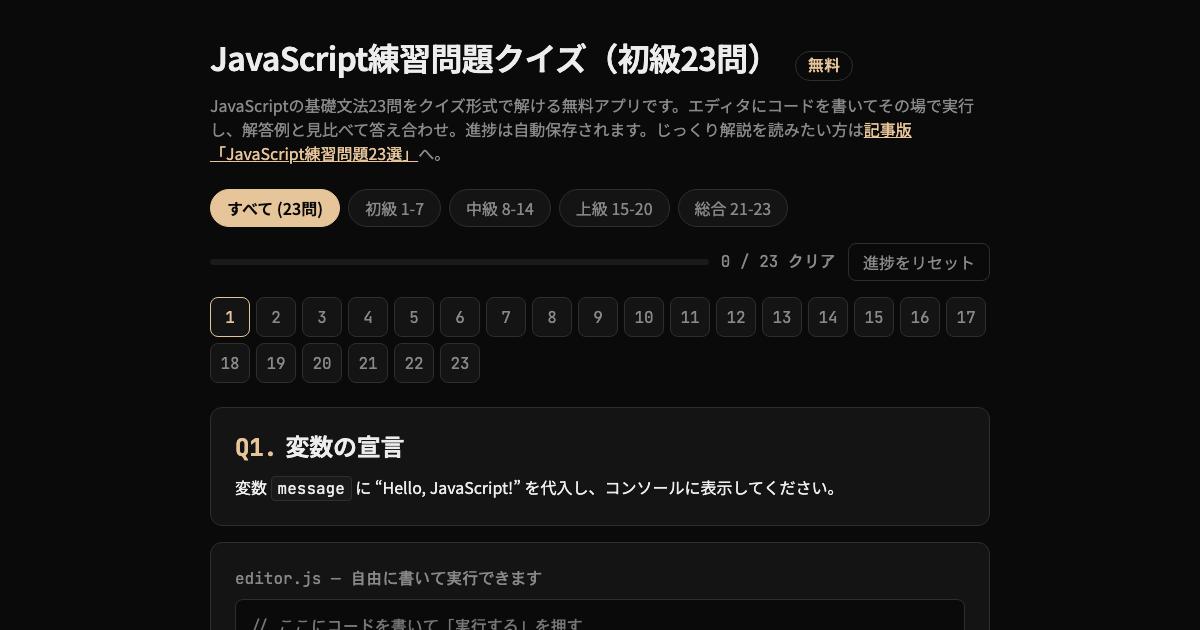
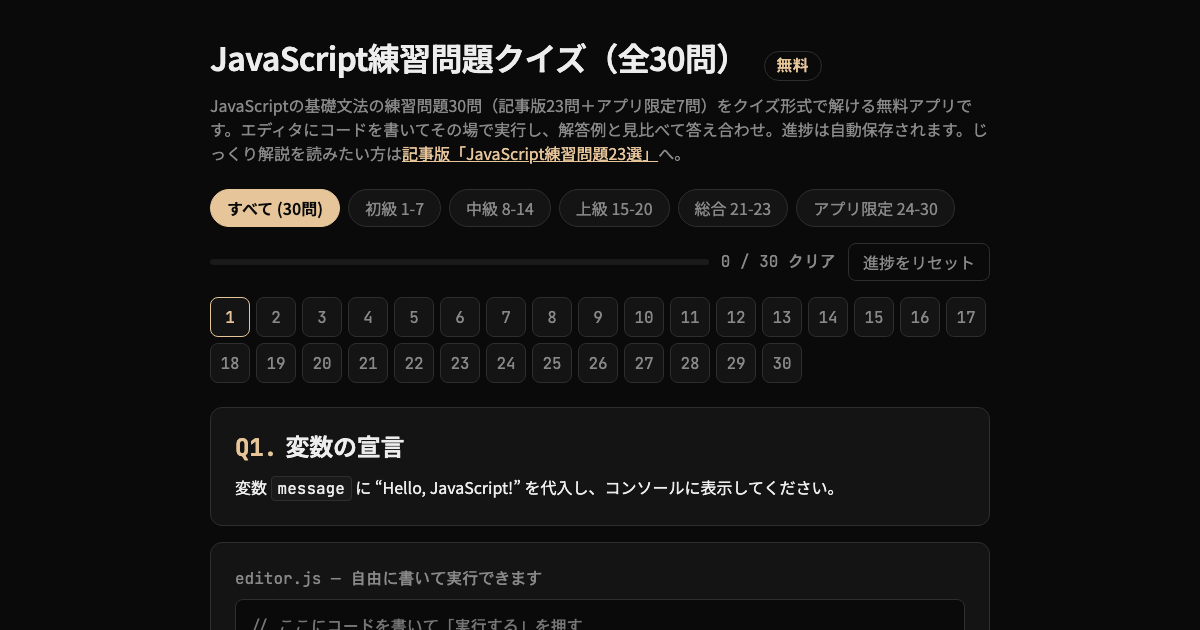
feat(js-beginner): 23問→30問へ拡張（Q24-30アプリ限定ドリル追加・js-array方式のstarterプリセット対応・全30問表記へSEO/OG更新・?v=20260729b）

diff --git a/apps/js-beginner/js/data.js b/apps/js-beginner/js/data.js
@@ -1,10 +1,18 @@
-// 問題データ（記事版 id937 と同期）
-const PROBLEMS = [{"id":1,"title":"変数の宣言","questionHtml":"変数 <code>message</code> に “Hello, JavaScript!” を代入し、コンソールに表示してください。","answer":"let message = \"Hello, JavaScript!\";\nconsole.log(message);"},{"id":2,"title":"四則演算","questionHtml":"2つの変数 <code>a</code> と <code>b</code> に数値を代入し、足し算・引き算・掛け算・割り算の結果をコンソールに表示してください。","answer":"let a = 10;\nlet b = 2;\nconsole.log(a + b, a - b, a * b, a / b);"},{"id":3,"title":"データ型の確認","questionHtml":"変数 <code>num</code> に数値 5、<code>text</code> に文字列 “JavaScript” を代入し、各データ型を確認してください。","answer":"let num = 5;\nlet text = \"JavaScript\";\nconsole.log(typeof num, typeof text);"},{"id":4,"title":"条件分岐 (if文)","questionHtml":"<code>score</code> が80以上なら “合格”、それ未満なら “不合格” と表示してください。","answer":"let score = 85;\nif (score >= 80) {\n  console.log(\"合格\");\n} else {\n  console.log(\"不合格\");\n}"},{"id":5,"title":"繰り返し処理 (for文)","questionHtml":"1から5までの数値を順に表示してください。","answer":"for (let i = 1; i <= 5; i++) {\n  console.log(i);\n}"},{"id":6,"title":"配列の操作","questionHtml":"配列 <code>fruits</code> に “apple”, “banana”, “grape” を追加し、すべて表示してください。","answer":"let fruits = [];\nfruits.push(\"apple\", \"banana\", \"grape\");\nconsole.log(fruits);"},{"id":7,"title":"関数の作成","questionHtml":"引数に渡した数値を2倍にして返す関数 <code>double</code> を作成してください。","answer":"function double(x) {\n  return x * 2;\n}\nconsole.log(double(5));"},{"id":8,"title":"奇数・偶数の判定","questionHtml":"数値が奇数なら “奇数”、偶数なら “偶数” と表示してください。","answer":"let num = 4;\nif (num % 2 === 0) {\n  console.log(\"偶数\");\n} else {\n  console.log(\"奇数\");\n}"},{"id":9,"title":"while文の利用","questionHtml":"1から5までの数値を while文を使って表示してください。","answer":"let i = 1;\nwhile (i <= 5) {\n  console.log(i);\n  i++;\n}"},{"id":10,"title":"配列のループ処理","questionHtml":"配列 <code>numbers = [1, 2, 3, 4, 5]</code> をループで順番に表示してください。","answer":"let numbers = [1, 2, 3, 4, 5];\nnumbers.forEach(num => console.log(num));"},{"id":11,"title":"三項演算子の利用","questionHtml":"<code>age</code> が20以上なら “大人”、それ未満なら “子供” と表示してください。","answer":"let age = 18;\nconsole.log(age >= 20 ? \"大人\" : \"子供\");"},{"id":12,"title":"配列から最大値を探す","questionHtml":"配列 <code>numbers = [10, 20, 30, 5, 25]</code> の最大値を表示してください。","answer":"let numbers = [10, 20, 30, 5, 25];\nconsole.log(Math.max(...numbers));"},{"id":13,"title":"オブジェクトの利用","questionHtml":"オブジェクト <code>person</code> に <code>name</code> と <code>age</code> を追加し、表示してください。","answer":"let person = {};\nperson.name = \"Taro\";\nperson.age = 25;\nconsole.log(person);"},{"id":14,"title":"フィルタリング処理","questionHtml":"配列 <code>numbers = [1, 2, 3, 4, 5]</code> から偶数だけを取り出して表示してください。","answer":"let numbers = [1, 2, 3, 4, 5];\nlet evenNumbers = numbers.filter(num => num % 2 === 0);\nconsole.log(evenNumbers);"},{"id":15,"title":"配列の合計値","questionHtml":"配列 <code>numbers = [1, 2, 3, 4, 5]</code> の合計値を求めてください。","answer":"let numbers = [1, 2, 3, 4, 5];\nlet sum = numbers.reduce((acc, num) => acc + num, 0);\nconsole.log(sum);"},{"id":16,"title":"配列の重複を削除する","questionHtml":"配列 <code>numbers = [1, 2, 2, 3, 4, 4, 5]</code> から重複を取り除いて表示してください。","answer":"let numbers = [1, 2, 2, 3, 4, 4, 5];\nlet unique = [...new Set(numbers)];\nconsole.log(unique);"},{"id":17,"title":"関数を返す関数","questionHtml":"関数 <code>createMultiplier</code> を作成し、引数に渡した数値で掛け算する関数を返してください。","answer":"function createMultiplier(factor) {\n  return function(x) {\n    return x * factor;\n  };\n}\nlet double = createMultiplier(2);\nconsole.log(double(5));"},{"id":18,"title":"オブジェクトのメソッド","questionHtml":"オブジェクト <code>calculator</code> に <code>add</code> メソッドを作成し、2つの数値を足し算してください。","answer":"let calculator = {\n  add: function(a, b) {\n    return a + b;\n  }\n};\nconsole.log(calculator.add(3, 5));"},{"id":19,"title":"配列の並び替え","questionHtml":"配列 <code>numbers = [5, 2, 8, 1, 3]</code> を昇順に並び替えて表示してください。","answer":"let numbers = [5, 2, 8, 1, 3];\nlet sorted = [...numbers].sort((a, b) => a - b);\nconsole.log(sorted);"},{"id":20,"title":"クラスの利用","questionHtml":"<code>Person</code> クラスを作成し、<code>name</code> プロパティと <code>greet</code> メソッドを追加してください。","answer":"class Person {\n  constructor(name) {\n    this.name = name;\n  }\n  greet() {\n    console.log(`Hello, my name is ${this.name}.`);\n  }\n}\nlet person = new Person(\"Taro\");\nperson.greet();"},{"id":21,"title":"FizzBuzz判定関数","questionHtml":"1から100までの数値を順に表示してください。ただし、3の倍数のときは数値の代わりに “Fizz”、5の倍数のときは “Buzz”、3と5の両方の倍数のときは “FizzBuzz” と表示してください。","answer":"function fizzBuzz(number) {\n  if (number % 3 === 0 && number % 5 === 0) {\n    console.log(\"FizzBuzz\");\n  } else if (number % 3 === 0) {\n    console.log(\"Fizz\");\n  } else if (number % 5 === 0) {\n    console.log(\"Buzz\");\n  } else {\n    console.log(number);\n  }\n}\nfor (let i = 1; i <= 100; i++) {\n  fizzBuzz(i);\n}"},{"id":22,"title":"フィボナッチ数列の生成","questionHtml":"引数に渡した項数ぶんのフィボナッチ数列を配列で返す関数 <code>generateFibonacci</code> を作成してください。例えば <code>generateFibonacci(10)</code> なら <code>[0, 1, 1, 2, 3, 5, 8, 13, 21, 34]</code> を返します。","answer":"function generateFibonacci(n) {\n  if (n <= 0) return [];\n  if (n === 1) return [0];\n  const fib = [0, 1];\n  for (let i = 2; i < n; i++) {\n    fib.push(fib[i - 1] + fib[i - 2]);\n  }\n  return fib;\n}\nconsole.log(generateFibonacci(10));\n// [0, 1, 1, 2, 3, 5, 8, 13, 21, 34]"},{"id":23,"title":"配列の重複除去","questionHtml":"配列 <code>[1, 2, 2, 3, 4, 4, 5]</code> から重複する要素を取り除き、ユニークな値だけの配列を返す関数 <code>removeDuplicates</code> を作成してください。","answer":"function removeDuplicates(arr) {\n  return [...new Set(arr)];\n}\nconsole.log(removeDuplicates([1, 2, 2, 3, 4, 4, 5]));\n// [1, 2, 3, 4, 5]"}];
+// 問題データ（Q1-23は記事版 id937 と同期・Q24-30はアプリ限定ドリル）
+const PROBLEMS = [{"id":1,"title":"変数の宣言","questionHtml":"変数 <code>message</code> に “Hello, JavaScript!” を代入し、コンソールに表示してください。","answer":"let message = \"Hello, JavaScript!\";\nconsole.log(message);"},{"id":2,"title":"四則演算","questionHtml":"2つの変数 <code>a</code> と <code>b</code> に数値を代入し、足し算・引き算・掛け算・割り算の結果をコンソールに表示してください。","answer":"let a = 10;\nlet b = 2;\nconsole.log(a + b, a - b, a * b, a / b);"},{"id":3,"title":"データ型の確認","questionHtml":"変数 <code>num</code> に数値 5、<code>text</code> に文字列 “JavaScript” を代入し、各データ型を確認してください。","answer":"let num = 5;\nlet text = \"JavaScript\";\nconsole.log(typeof num, typeof text);"},{"id":4,"title":"条件分岐 (if文)","questionHtml":"<code>score</code> が80以上なら “合格”、それ未満なら “不合格” と表示してください。","answer":"let score = 85;\nif (score >= 80) {\n  console.log(\"合格\");\n} else {\n  console.log(\"不合格\");\n}"},{"id":5,"title":"繰り返し処理 (for文)","questionHtml":"1から5までの数値を順に表示してください。","answer":"for (let i = 1; i <= 5; i++) {\n  console.log(i);\n}"},{"id":6,"title":"配列の操作","questionHtml":"配列 <code>fruits</code> に “apple”, “banana”, “grape” を追加し、すべて表示してください。","answer":"let fruits = [];\nfruits.push(\"apple\", \"banana\", \"grape\");\nconsole.log(fruits);"},{"id":7,"title":"関数の作成","questionHtml":"引数に渡した数値を2倍にして返す関数 <code>double</code> を作成してください。","answer":"function double(x) {\n  return x * 2;\n}\nconsole.log(double(5));"},{"id":8,"title":"奇数・偶数の判定","questionHtml":"数値が奇数なら “奇数”、偶数なら “偶数” と表示してください。","answer":"let num = 4;\nif (num % 2 === 0) {\n  console.log(\"偶数\");\n} else {\n  console.log(\"奇数\");\n}"},{"id":9,"title":"while文の利用","questionHtml":"1から5までの数値を while文を使って表示してください。","answer":"let i = 1;\nwhile (i <= 5) {\n  console.log(i);\n  i++;\n}"},{"id":10,"title":"配列のループ処理","questionHtml":"配列 <code>numbers = [1, 2, 3, 4, 5]</code> をループで順番に表示してください。","answer":"let numbers = [1, 2, 3, 4, 5];\nnumbers.forEach(num => console.log(num));"},{"id":11,"title":"三項演算子の利用","questionHtml":"<code>age</code> が20以上なら “大人”、それ未満なら “子供” と表示してください。","answer":"let age = 18;\nconsole.log(age >= 20 ? \"大人\" : \"子供\");"},{"id":12,"title":"配列から最大値を探す","questionHtml":"配列 <code>numbers = [10, 20, 30, 5, 25]</code> の最大値を表示してください。","answer":"let numbers = [10, 20, 30, 5, 25];\nconsole.log(Math.max(...numbers));"},{"id":13,"title":"オブジェクトの利用","questionHtml":"オブジェクト <code>person</code> に <code>name</code> と <code>age</code> を追加し、表示してください。","answer":"let person = {};\nperson.name = \"Taro\";\nperson.age = 25;\nconsole.log(person);"},{"id":14,"title":"フィルタリング処理","questionHtml":"配列 <code>numbers = [1, 2, 3, 4, 5]</code> から偶数だけを取り出して表示してください。","answer":"let numbers = [1, 2, 3, 4, 5];\nlet evenNumbers = numbers.filter(num => num % 2 === 0);\nconsole.log(evenNumbers);"},{"id":15,"title":"配列の合計値","questionHtml":"配列 <code>numbers = [1, 2, 3, 4, 5]</code> の合計値を求めてください。","answer":"let numbers = [1, 2, 3, 4, 5];\nlet sum = numbers.reduce((acc, num) => acc + num, 0);\nconsole.log(sum);"},{"id":16,"title":"配列の重複を削除する","questionHtml":"配列 <code>numbers = [1, 2, 2, 3, 4, 4, 5]</code> から重複を取り除いて表示してください。","answer":"let numbers = [1, 2, 2, 3, 4, 4, 5];\nlet unique = [...new Set(numbers)];\nconsole.log(unique);"},{"id":17,"title":"関数を返す関数","questionHtml":"関数 <code>createMultiplier</code> を作成し、引数に渡した数値で掛け算する関数を返してください。","answer":"function createMultiplier(factor) {\n  return function(x) {\n    return x * factor;\n  };\n}\nlet double = createMultiplier(2);\nconsole.log(double(5));"},{"id":18,"title":"オブジェクトのメソッド","questionHtml":"オブジェクト <code>calculator</code> に <code>add</code> メソッドを作成し、2つの数値を足し算してください。","answer":"let calculator = {\n  add: function(a, b) {\n    return a + b;\n  }\n};\nconsole.log(calculator.add(3, 5));"},{"id":19,"title":"配列の並び替え","questionHtml":"配列 <code>numbers = [5, 2, 8, 1, 3]</code> を昇順に並び替えて表示してください。","answer":"let numbers = [5, 2, 8, 1, 3];\nlet sorted = [...numbers].sort((a, b) => a - b);\nconsole.log(sorted);"},{"id":20,"title":"クラスの利用","questionHtml":"<code>Person</code> クラスを作成し、<code>name</code> プロパティと <code>greet</code> メソッドを追加してください。","answer":"class Person {\n  constructor(name) {\n    this.name = name;\n  }\n  greet() {\n    console.log(`Hello, my name is ${this.name}.`);\n  }\n}\nlet person = new Person(\"Taro\");\nperson.greet();"},{"id":21,"title":"FizzBuzz判定関数","questionHtml":"1から100までの数値を順に表示してください。ただし、3の倍数のときは数値の代わりに “Fizz”、5の倍数のときは “Buzz”、3と5の両方の倍数のときは “FizzBuzz” と表示してください。","answer":"function fizzBuzz(number) {\n  if (number % 3 === 0 && number % 5 === 0) {\n    console.log(\"FizzBuzz\");\n  } else if (number % 3 === 0) {\n    console.log(\"Fizz\");\n  } else if (number % 5 === 0) {\n    console.log(\"Buzz\");\n  } else {\n    console.log(number);\n  }\n}\nfor (let i = 1; i <= 100; i++) {\n  fizzBuzz(i);\n}"},{"id":22,"title":"フィボナッチ数列の生成","questionHtml":"引数に渡した項数ぶんのフィボナッチ数列を配列で返す関数 <code>generateFibonacci</code> を作成してください。例えば <code>generateFibonacci(10)</code> なら <code>[0, 1, 1, 2, 3, 5, 8, 13, 21, 34]</code> を返します。","answer":"function generateFibonacci(n) {\n  if (n <= 0) return [];\n  if (n === 1) return [0];\n  const fib = [0, 1];\n  for (let i = 2; i < n; i++) {\n    fib.push(fib[i - 1] + fib[i - 2]);\n  }\n  return fib;\n}\nconsole.log(generateFibonacci(10));\n// [0, 1, 1, 2, 3, 5, 8, 13, 21, 34]"},{"id":23,"title":"配列の重複除去","questionHtml":"配列 <code>[1, 2, 2, 3, 4, 4, 5]</code> から重複する要素を取り除き、ユニークな値だけの配列を返す関数 <code>removeDuplicates</code> を作成してください。","answer":"function removeDuplicates(arr) {\n  return [...new Set(arr)];\n}\nconsole.log(removeDuplicates([1, 2, 2, 3, 4, 4, 5]));\n// [1, 2, 3, 4, 5]"},
+  {"id":24,"title":"文字列の操作","questionHtml":"文字列 <code>email</code> の文字数、すべて大文字にしたもの、「@」を含むかどうか（true / false）の3つを表示してください。","starter":"const email = 'taro@example.com';\n","answer":"console.log(email.length);\nconsole.log(email.toUpperCase());\nconsole.log(email.includes('@'));"},
+  {"id":25,"title":"テンプレートリテラル","questionHtml":"変数 <code>user</code> と <code>items</code> を使って、「田中さんのカートには3個の商品があります」という文章をテンプレートリテラル（バッククォート）で組み立てて表示してください。","starter":"const user = '田中';\nconst items = 3;\n","answer":"console.log(`${user}さんのカートには${items}個の商品があります`);"},
+  {"id":26,"title":"switch文の利用","questionHtml":"変数 <code>signal</code> の値に応じて、「red」なら“止まれ”、「yellow」なら“注意”、「green」なら“進め”、それ以外なら“不明”と表示する switch文を書いてください。","starter":"const signal = 'red';\n","answer":"switch (signal) {\n  case 'red':\n    console.log('止まれ');\n    break;\n  case 'yellow':\n    console.log('注意');\n    break;\n  case 'green':\n    console.log('進め');\n    break;\n  default:\n    console.log('不明');\n}"},
+  {"id":27,"title":"アロー関数とデフォルト引数","questionHtml":"名前を受け取って「こんにちは、〇〇さん」と表示するアロー関数 <code>greet</code> を作成してください。引数を省略したときは「ゲスト」を使うようにデフォルト引数を設定し、引数あり・なしの両方で呼び出して確認しましょう。","starter":"","answer":"const greet = (name = 'ゲスト') => {\n  console.log(`こんにちは、${name}さん`);\n};\ngreet('田中');\ngreet();"},
+  {"id":28,"title":"Mathオブジェクトの利用","questionHtml":"数値 <code>3.7</code> の切り捨て・切り上げ・四捨五入の結果を表示してください。さらに、<code>Math.random()</code> を使って1〜6のランダムな整数（サイコロ）を表示してください。","starter":"","answer":"console.log(Math.floor(3.7));\nconsole.log(Math.ceil(3.7));\nconsole.log(Math.round(3.7));\nconsole.log(Math.floor(Math.random() * 6) + 1);"},
+  {"id":29,"title":"分割代入","questionHtml":"オブジェクト <code>profile</code> から <code>name</code> と <code>age</code> を分割代入で取り出して表示してください。さらに、配列 <code>colors</code> の1つ目を <code>first</code>、残りを <code>rest</code> に分割代入して表示してください。","starter":"const profile = { name: '佐藤', age: 28, city: '東京' };\nconst colors = ['red', 'blue', 'green', 'yellow'];\n","answer":"const { name, age } = profile;\nconsole.log(name, age);\n\nconst [first, ...rest] = colors;\nconsole.log(first);\nconsole.log(rest);"},
+  {"id":30,"title":"総合：送料つき合計金額の計算","questionHtml":"合計金額を受け取り、5000円以上なら送料無料、それ未満なら送料500円として「合計：〇〇円（送料：〇〇円）」と表示する関数 <code>checkout</code> を作成してください。<code>4000</code> と <code>6000</code> の両方で呼び出して確認しましょう。","starter":"","answer":"function checkout(total) {\n  const shipping = total >= 5000 ? 0 : 500;\n  console.log(`合計：${total + shipping}円（送料：${shipping}円）`);\n}\ncheckout(4000);\ncheckout(6000);"}];
 
 const LEVELS = [
-  { key: 'all', label: 'すべて (23問)', range: [1, 23] },
+  { key: 'all', label: 'すべて (30問)', range: [1, 30] },
   { key: 'basic', label: '初級 1-7', range: [1, 7] },
   { key: 'mid', label: '中級 8-14', range: [8, 14] },
   { key: 'adv', label: '上級 15-20', range: [15, 20] },
   { key: 'challenge', label: '総合 21-23', range: [21, 23] },
+  { key: 'extra', label: 'アプリ限定 24-30', range: [24, 30] },
 ];

diff --git a/apps/js-beginner/index.html b/apps/js-beginner/index.html
@@ -3,8 +3,8 @@
 <head>
 <meta charset="UTF-8">
 <meta name="viewport" content="width=device-width, initial-scale=1.0">
-<title>JavaScript練習問題クイズ【無料】初級23問をブラウザで解いて即実行</title>
-<meta name="description" content="JavaScriptの練習問題23問をクイズ形式で解ける無料アプリ。ブラウザ上のエディタでコードを書いてその場で実行し、解答例と見比べて答え合わせ。進捗は自動保存、登録・インストール不要で基礎文法を固められます。">
+<title>JavaScript練習問題クイズ【無料】全30問をブラウザで解いて即実行</title>
+<meta name="description" content="JavaScriptの練習問題30問（記事版23問＋アプリ限定7問）をクイズ形式で解ける無料アプリ。ブラウザ上のエディタでコードを書いてその場で実行し、解答例と見比べて答え合わせ。進捗は自動保存、登録・インストール不要で基礎文法を固められます。">
 <link rel="canonical" href="https://codequest.work/apps/js-beginner/">
 <link rel="alternate" hreflang="ja" href="https://codequest.work/apps/js-beginner/">
 <link rel="alternate" hreflang="x-default" href="https://codequest.work/apps/js-beginner/">
@@ -14,18 +14,18 @@
 <meta property="og:type" content="website">
 <meta property="og:site_name" content="CodeQuest.work">
 <meta property="og:locale" content="ja_JP">
-<meta property="og:title" content="JavaScript練習問題クイズ【無料】初級23問をブラウザで解いて即実行">
-<meta property="og:description" content="JavaScriptの練習問題23問をクイズ形式で解ける無料アプリ。ブラウザ上のエディタでコードを書いてその場で実行し、解答例と見比べて答え合わせできます。">
+<meta property="og:title" content="JavaScript練習問題クイズ【無料】全30問をブラウザで解いて即実行">
+<meta property="og:description" content="JavaScriptの練習問題30問（記事版23問＋アプリ限定7問）をクイズ形式で解ける無料アプリ。ブラウザ上のエディタでコードを書いてその場で実行し、解答例と見比べて答え合わせできます。">
 <meta property="og:url" content="https://codequest.work/apps/js-beginner/">
 <meta property="og:image" content="https://codequest.work/apps/js-beginner/assets/og.png">
 <meta property="og:image:width" content="1200">
 <meta property="og:image:height" content="630">
-<meta property="og:image:alt" content="JavaScript練習問題クイズ（初級23問）">
+<meta property="og:image:alt" content="JavaScript練習問題クイズ（全30問）">
 
 <!-- Twitter Card -->
 <meta name="twitter:card" content="summary_large_image">
-<meta name="twitter:title" content="JavaScript練習問題クイズ【無料】初級23問をブラウザで解いて即実行">
-<meta name="twitter:description" content="JavaScriptの練習問題23問をクイズ形式で解ける無料アプリ。エディタでコードを書いてその場で実行し、解答例と見比べて答え合わせできます。">
+<meta name="twitter:title" content="JavaScript練習問題クイズ【無料】全30問をブラウザで解いて即実行">
+<meta name="twitter:description" content="JavaScriptの練習問題30問（記事版23問＋アプリ限定7問）をクイズ形式で解ける無料アプリ。エディタでコードを書いてその場で実行し、解答例と見比べて答え合わせできます。">
 <meta name="twitter:image" content="https://codequest.work/apps/js-beginner/assets/og.png">
 
 <!-- 構造化データ -->
@@ -35,9 +35,9 @@
   "@graph": [
     {
       "@type": "WebApplication",
-      "name": "JavaScript練習問題クイズ（初級23問）",
+      "name": "JavaScript練習問題クイズ（全30問）",
       "url": "https://codequest.work/apps/js-beginner/",
-      "description": "JavaScriptの基礎文法23問をクイズ形式で解ける無料アプリ。ブラウザ上のエディタでコードを書いてその場で実行し、解答例と見比べて自己採点できる。進捗は自動保存。登録・インストール不要。",
+      "description": "JavaScriptの基礎文法の練習問題30問（記事版23問＋アプリ限定7問）をクイズ形式で解ける無料アプリ。ブラウザ上のエディタでコードを書いてその場で実行し、解答例と見比べて自己採点できる。進捗は自動保存。登録・インストール不要。",
       "applicationCategory": "EducationalApplication",
       "operatingSystem": "Web",
       "browserRequirements": "Requires JavaScript.",
@@ -75,10 +75,10 @@
 <body>
 <div class="wrap">
   <header>
-    <h1>JavaScript練習問題クイズ（初級23問）</h1>
+    <h1>JavaScript練習問題クイズ（全30問）</h1>
     <span class="free">無料</span>
   </header>
-  <p class="lead">JavaScriptの基礎文法23問をクイズ形式で解ける無料アプリです。エディタにコードを書いてその場で実行し、解答例と見比べて答え合わせ。進捗は自動保存されます。じっくり解説を読みたい方は<a href="https://codequest.work/javascript-practice-problems-beginner/" target="_blank" rel="noopener">記事版「JavaScript練習問題23選」</a>へ。</p>
+  <p class="lead">JavaScriptの基礎文法の練習問題30問（記事版23問＋アプリ限定7問）をクイズ形式で解ける無料アプリです。エディタにコードを書いてその場で実行し、解答例と見比べて答え合わせ。進捗は自動保存されます。じっくり解説を読みたい方は<a href="https://codequest.work/javascript-practice-problems-beginner/" target="_blank" rel="noopener">記事版「JavaScript練習問題23選」</a>へ。</p>
 
   <div class="tabs" id="tabs"></div>
 
@@ -145,7 +145,7 @@
   <section class="about">
     <h2>このアプリについて</h2>
     <ul>
-      <li>変数・条件分岐・ループ・配列・関数・クラスまで、JavaScriptの基礎文法を23問で総ざらいできます</li>
+      <li>変数・条件分岐・ループ・配列・関数・クラスまで、JavaScriptの基礎文法を全30問（記事版と同じ23問＋文字列・switch・分割代入などアプリ限定ドリル7問）で総ざらいできます</li>
       <li>コードはブラウザ内でそのまま実行され、console.logの出力とエラーを確認できます（登録・インストール不要）</li>
       <li>「✓できた / △あとで復習」の自己判定はこの端末に自動保存され、復習リストだけを解き直せます</li>
     </ul>
@@ -186,7 +186,7 @@
   })();
 </script>
 
-<script src="js/data.js?v=20260729a"></script>
-<script src="js/main.js?v=20260729a"></script>
+<script src="js/data.js?v=20260729b"></script>
+<script src="js/main.js?v=20260729b"></script>
 </body>
 </html>

diff --git a/apps/js-beginner/js/main.js b/apps/js-beginner/js/main.js
@@ -53,7 +53,8 @@ function renderProblem() {
   $('qNum').textContent = `Q${p.id}.`;
   $('qTitle').textContent = p.title;
   $('qText').innerHTML = p.questionHtml;
-  $('editor').value = state.drafts[p.id] || '';
+  // 下書きがなければ問題のデータ（starter）をプリセット
+  $('editor').value = state.drafts[p.id] || p.starter || '';
   $('answerCode').textContent = p.answer;
   $('answerBox').open = false;
   $('console').classList.remove('show');
@@ -108,9 +109,13 @@ $('runBtn').onclick = () => {
   $('console').classList.add('show');
 };
 
+// リセット＝下書きを破棄して問題のデータ（starter）に戻す
 $('clearBtn').onclick = () => {
-  $('editor').value = '';
-  state = { ...state, drafts: { ...state.drafts, [state.current]: '' } };
+  const p = problem(state.current);
+  $('editor').value = p.starter || '';
+  const drafts = { ...state.drafts };
+  delete drafts[state.current];
+  state = { ...state, drafts };
   save();
 };
 
